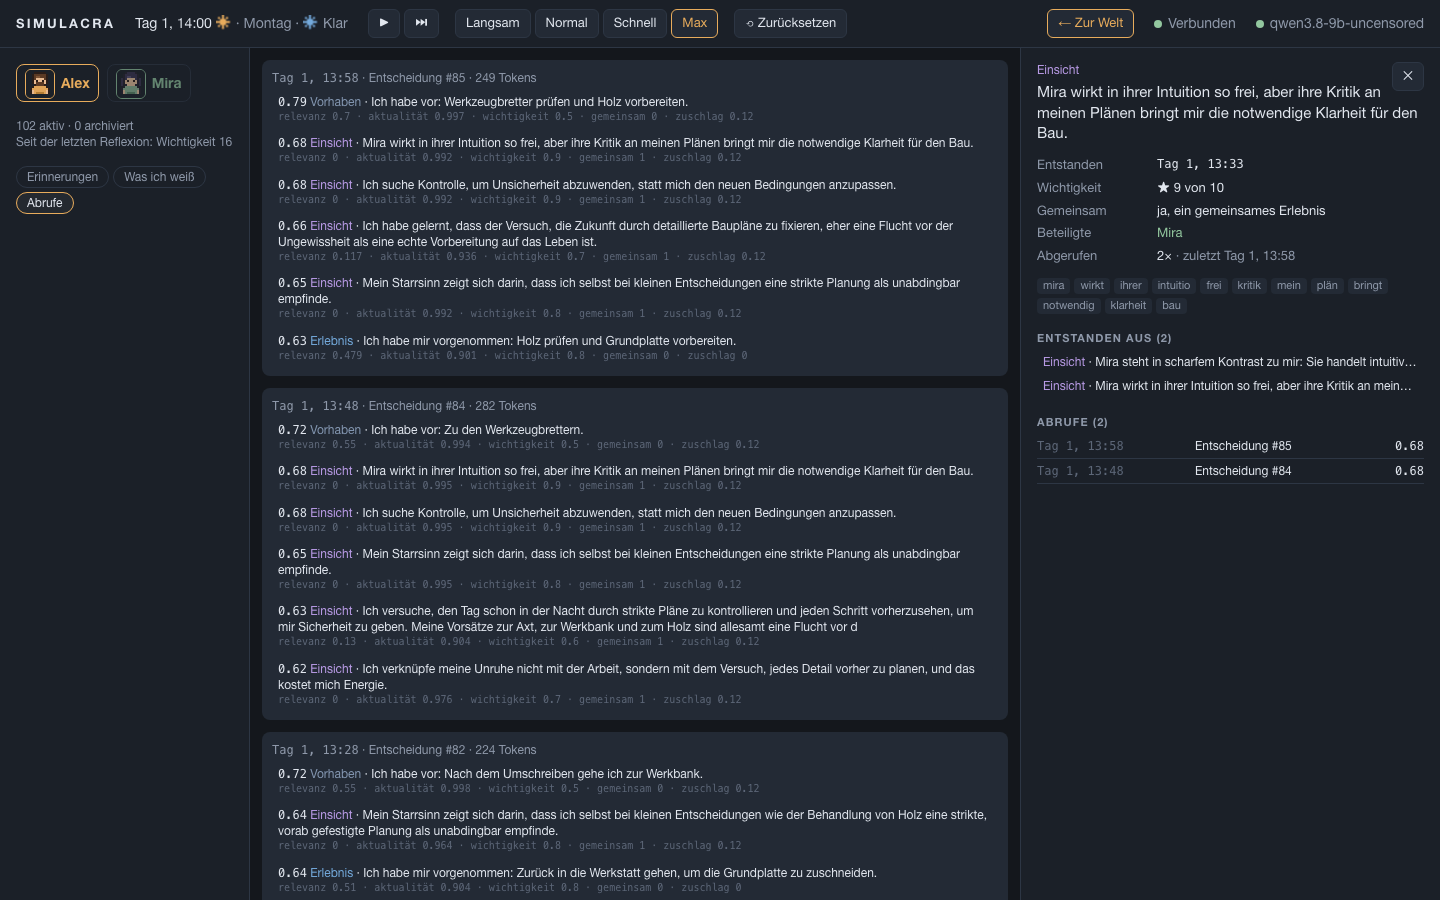
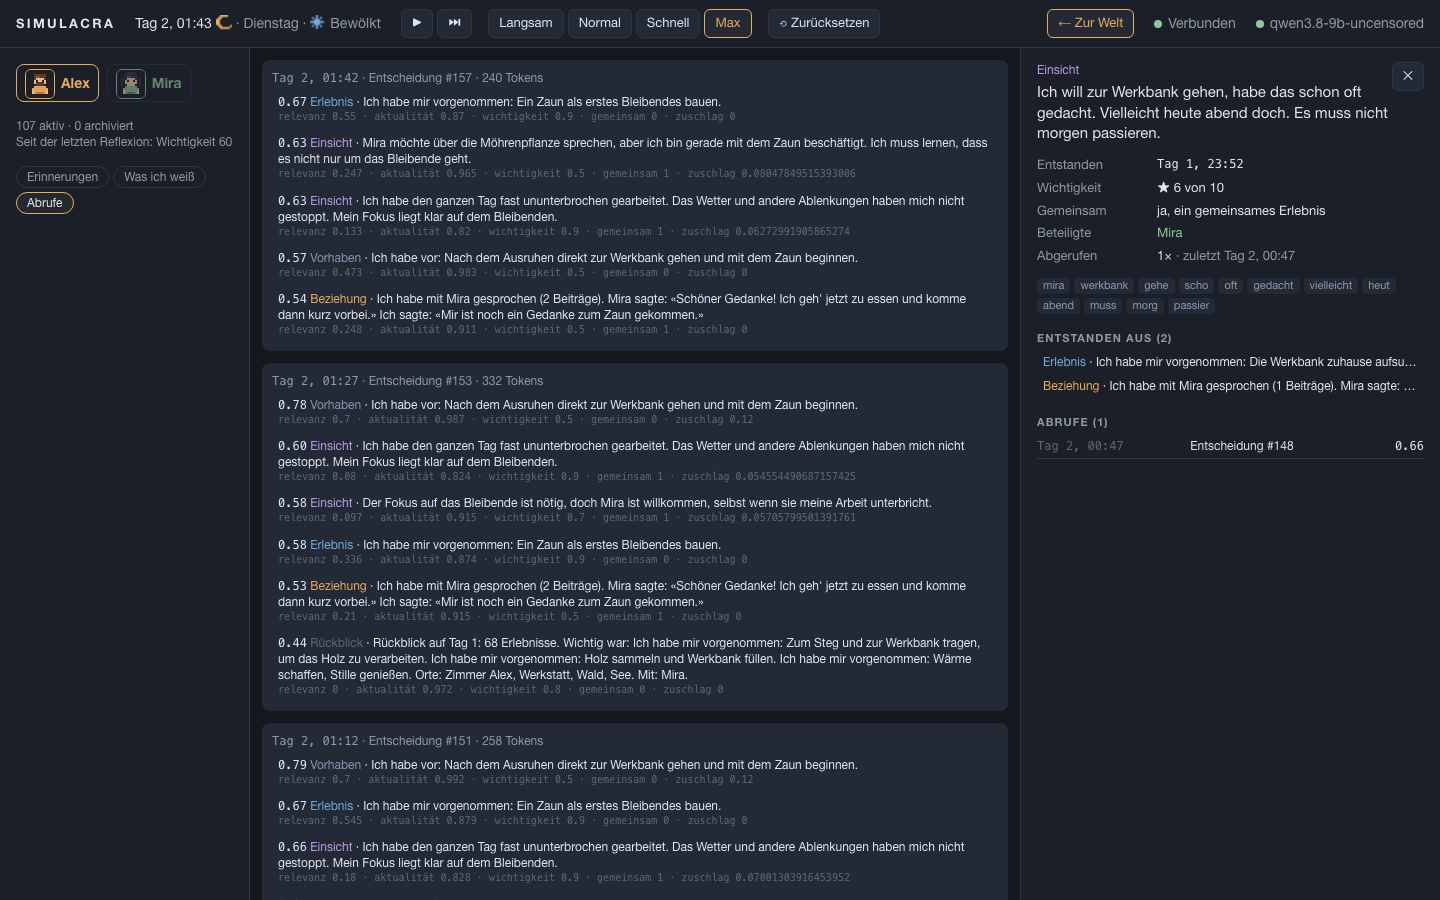
AP05: Statusbericht, Quellenzahlen im Einsichtstext entfernen

diff --git a/backend/simulacra/memory/reflection.py b/backend/simulacra/memory/reflection.py
@@ -110,6 +110,7 @@ class Reflector:
         """Quellenverweise im Text („(Quelle: 3)“, „Quellen: 2, 5“) gehören ins Feld sources, nicht in die Einsicht."""
         text = re.sub(r"\s*[\(\[]\s*(?:Quellen?|Erinnerung(?:en)?|Nr\.?)\b[^)\]]*[)\]]", "", text)
         text = re.sub(r"\s*(?:Quellen?|Erinnerung(?:en)?)\s*:\s*[\d,\s und]+\.?\s*$", "", text)
+        text = re.sub(r"\s*[\(\[]\s*\d+(?:\s*[-–,]\s*\d+)*\s*[\)\]]", "", text)      # „(11–12)“, „(17, 19, 20)“
         return " ".join(text.split())
 
     def _reject(self, job: Job, why: str, text: str, loc: str | None) -> None:

diff --git a/backend/tests/memory/test_reflection_maintenance.py b/backend/tests/memory/test_reflection_maintenance.py
@@ -163,6 +163,7 @@ def test_source_citations_are_removed_from_reflection_text():
     assert Reflector._clean("Ich merke, dass ich gern plane (Quelle: 3, 5).") == "Ich merke, dass ich gern plane."
     assert Reflector._clean("Alex ist geduldig. Quellen: 2, 4.") == "Alex ist geduldig."
     assert Reflector._clean("Ich mag den See [Erinnerung 2].") == "Ich mag den See."
+    assert Reflector._clean("Ich vergesse Alex. (11–12) Sehr sogar (17, 19, 20)") == "Ich vergesse Alex. Sehr sogar"
 
 
 async def test_repeating_an_earlier_reflection_is_discarded(sim):

diff --git a/docs/status/AP05.md b/docs/status/AP05.md
@@ -1,0 +1,55 @@
+# Statusbericht AP05 – Gedächtnis, Abruf, Reflexion
+
+Stand: 11.10.2026 · Branch `ap/05-gedaechtnis` · Freigabe zum Zusammenführen: **offen**
+
+## Geliefert
+- **Datenmodell** (Migration 005): `memories` (alle Felder des Pakets, ULID-Kennung `mem_…`), FTS5-Index, `known_objects`, `known_locations`, `retrievals` (Abrufprotokoll mit Entscheidung und Teilpunkten), `memory_state`. Dazu Pydantic-Modelle, Parameter (`memory/params.py`, `SIM_MEM_*`).
+- **Schreibpfad** (`writer.py`, `importance.py`): aus Beobachtungen, Entscheidungen (Absicht in den eigenen Worten, auch Misserfolge), Gesprächen (eine Erinnerung je Gespräch und Teilnehmer), Vorhaben. Regelbasierte Wichtigkeit gemittelt mit der Einschätzung des Agenten, Schwelle, Ich-Form, Dublettenschutz. **Kein Modellaufruf je Erinnerung.**
+- **Abrufpfad** (`retrieval.py`): Relevanz (FTS5, Person, Ort), Aktualität, Wichtigkeit, gemeinsames Erlebnis, einstellbare Gewichte, Schwelle, Höchstzahl, **Token-Budget**; Einsichten und offene Vorhaben bevorzugt, aber begrenzt. Im Prompt unter „Woran du dich erinnerst:“. Jeder Abruf: Protokoll, `access_count`, `agent.memory_retrieved`.
+- **Reflexion** (`reflection.py`): Auslöser nach Wichtigkeitssumme oder abends; Quellen werden nummeriert vorgelegt und geprüft (existieren, gehören dem Agenten); Wiederholungen, Verweise im Text und Einsichten ohne Quelle werden verworfen; läuft zwischen den Ticks mit niedriger Priorität; Modellfehler stören nichts.
+- **Pflege** (`maintenance.py`): Tagesrückblick, Archivierung (nie Löschen), Obergrenze 2000 aktive je Agent.
+- **Wissen:** zuletzt gesehener Zustand von Gegenständen, besuchte Orte.
+- **API:** `/api/agents/{id}/memories` (Filter, Sortierung, Seiten), `…/memories/{mid}` (Quellen, abgeleitete Einsichten, Quellereignis, Abrufe), `…/knowledge`, `…/retrievals`, `…/memory-stats`.
+- **Ereignisse:** `agent.memory_created`, `agent.memory_retrieved`, `agent.memory_skipped` (Debug, verworfene Reflexionen), `agent.memory_archived`; Sichtbarkeit `system` (der andere Agent sieht nie, was jemand speichert).
+- **Frontend:** Gedächtnis-Inspektor (Spalten-/Nebeneinander-Ansicht, Filter nach Art, Status, Person, Ort, Text, Sortierung; Detail mit Herkunft; „Was ich weiß“; „Abrufe“ mit Teilpunkten), Live-Markierung „neu“, Aufleuchten am Agenten (Speichern grün, Abrufen violett), Erinnerungen im Agenten-Detail, Protokollfilter „Gedächtnis“.
+- Doku: [gedaechtnis.md](../gedaechtnis.md), [schnittstellen.md](../schnittstellen.md), [konfiguration.md](../konfiguration.md), [frontend.md](../frontend.md).
+
+## Abnahme
+- [x] **Nach einem Sim-Tag haben beide Agenten unterschiedliche, sinnvolle Erinnerungen und mindestens eine Reflexion.** Lauf mit dem echten Modell, 1440 Simulationsminuten (07:00 bis 07:00): 157 Entscheidungen, alle gültig, Ø 4,8 s, Prompt Ø 1321 Tokens. Alex 107, Mira 134 aktive Erinnerungen (Erlebnisse 65/76, Beziehungen 9/9, Vorhaben 16/32, **Einsichten 14/12**, je ein Tagesrückblick). **Keine einzige gemeinsame Erinnerung** (0 gleiche Texte), jede aus der eigenen Sicht („Ich sagte …“ / „Mira sagte …“). 155 Abrufe, Ø 184 Tokens, alle mit Entscheidung verknüpft. Bild: [Inspektor](img/ap05-inspektor.png), [Einsicht mit Quellen](img/ap05-einsicht.png), [Abrufe](img/ap05-abrufe.png).
+- [x] **Im Browser leuchtet Speichern und Abrufen sichtbar auf; der Inspektor zeigt alle Einträge mit Herkunft** (Playwright: `Speichern und Abrufen leuchten am Agenten auf`; Detail mit Quellereignis, Quellen, Abrufen).
+- [x] **Neustart: Gedächtnis vollständig da** (§17 Nr. 7): die Datenbank des Tageslaufs neu geöffnet: SQL-Zählung `{alex: 107, mira: 134}` = Gedächtnis nach dem Neustart `{alex: 107, mira: 134}`; Abruf liefert sofort 6 Erinnerungen; Mira sieht 0 Einträge von Alex. Als Test: `test_restart_keeps_everything_and_the_prompt_uses_it_again`.
+- [x] **Tests grün.**
+
+### Ausgaben
+```
+Backend:    315 passed, 1 deselected, 1 warning in 13.68s      (vorher 273; 42 neue Tests in tests/memory und tests/api)
+Vitest:     Test Files 6 passed (6) · Tests 44 passed (44)
+Playwright: 17 passed (50.9 s)                                  (5 neue Gedächtnis-Tests)
+tsc -b ohne Fehler · gen_types.sh --check: Typen aktuell
+```
+
+### Zuordnung zu §17
+| Nr. | Kriterium | Beleg |
+|---|---|---|
+| 2 | Getrennte Gedächtnisse | `test_memories_of_one_agent_are_never_visible_to_another`, `test_every_memory_statement_is_scoped_to_the_agent` (führt alle Methoden aus und prüft jede SQL-Anweisung auf den Agentenfilter), API-Test (fremde Erinnerung → 404), Playwright (Inspektor zeigt nur Einträge des gewählten Agenten) |
+| 7 | Erinnerungen überleben Neustart | siehe oben, Test und Tageslauf |
+| 11 | Nur zugängliches Wissen | Test mit drittem Agenten, der nicht beim Gespräch war: keine Erinnerung daran; Gedächtnis-Ereignisse nur `system` |
+
+Weitere Tests (Auswahl): Schwelle, Gesprächssätze nur zusammengefasst, Dubletten, Wichtigkeit gemischt, erste Begegnung, „am See mit Mira“ bringt das frühere Treffen zuerst, Gewichte ändern die Reihenfolge messbar, Token-Budget und Schwelle, Archivierung (bleibt in der Datenbank, nicht im Abruf, Obergrenze), Reflexion (gültige Quellen, erfundene Quellen, gemischte Antwort, fremde Quellen unmöglich, defektes JSON, Wiederholung), Vorhaben-Regeln, Verweise im Einsichtstext.
+
+## Gefundene und behobene Fehler (der echte Lauf hat sie gezeigt)
+- **Zu viele Einträge:** jedes `plan_next` wurde ein Vorhaben (über 30 je Agent in 7 Stunden). Jetzt nur bei Zusage (Person, „später“, „morgen“ …) oder Wiederholung; ein gleiches offenes Vorhaben wird nur aufgefrischt.
+- **Reflexionen verdrängten alles Erlebte im Abruf** (immer dieselben fünf, unabhängig von der Lage). Zuschlag jetzt abhängig von der Relevanz, höchstens 2 Einsichten und 1 Vorhaben je Prompt.
+- **Doppelte Einsichten** (21 in 7 Stunden, fast gleichlautend): frühere Einsichten stehen im Reflexionsprompt, Wiederholungen werden verworfen.
+- **Quellenverweise im Einsichtstext** („(Quelle: 3)“, „(17, 19, 20)“): werden entfernt.
+- Ohne Stichwort konnten weder Aktualität noch Wichtigkeit wirken: die jüngsten und wichtigsten Einträge sind jetzt immer Kandidaten.
+
+## Abweichungen und Einschränkungen (ehrlich)
+- **Zusammenfassungen sind regelbasiert** (ohne Modellaufruf: wichtigste Erlebnisse, Orte, Personen), nicht vom Modell formuliert. Spart Last; lesbar, aber nüchtern.
+- **Beziehungsreflexion** (Werte aktualisieren) kommt mit AP06, wo es die Beziehungswerte gibt. Beziehungen stehen bis dahin als `relation`-Erinnerungen.
+- **Archivierung** ist im Lauf nicht zu sehen (sie greift nach 2 Tagen); durch Tests belegt, mit einem Mehrtageslauf sichtbar.
+- **Qualität der Einsichten:** das 9B-Modell schreibt gelegentlich mehr Grübelei als Einsicht und wiederholt Themen („mein Fokus liegt auf dem Bleibenden“). Die Quellenpflicht und der Wiederholungsschutz halten es in Grenzen; bessere Texte bräuchten ein größeres Modell.
+- **Semantische Suche** (Embeddings) bleibt vorgemerkt; Stichwortsuche mit deutscher Grobstammbildung reicht für die Welt (Relevanz-Werte im Abruf-Protokoll sichtbar).
+- Abruf erhöht den Prompt um ca. 180–330 Tokens (Ø Entscheidungsdauer 4,8 s statt 4,5 s).
+- Die Welt wird beim Wechsel in den Inspektor neu aufgebaut (Kameraposition geht verloren).
+- Menschliche Mitspieler (später) bekommen kein automatisches Gedächtnis: `agent_id`-Schreiber laufen nur für KI-Agenten.
